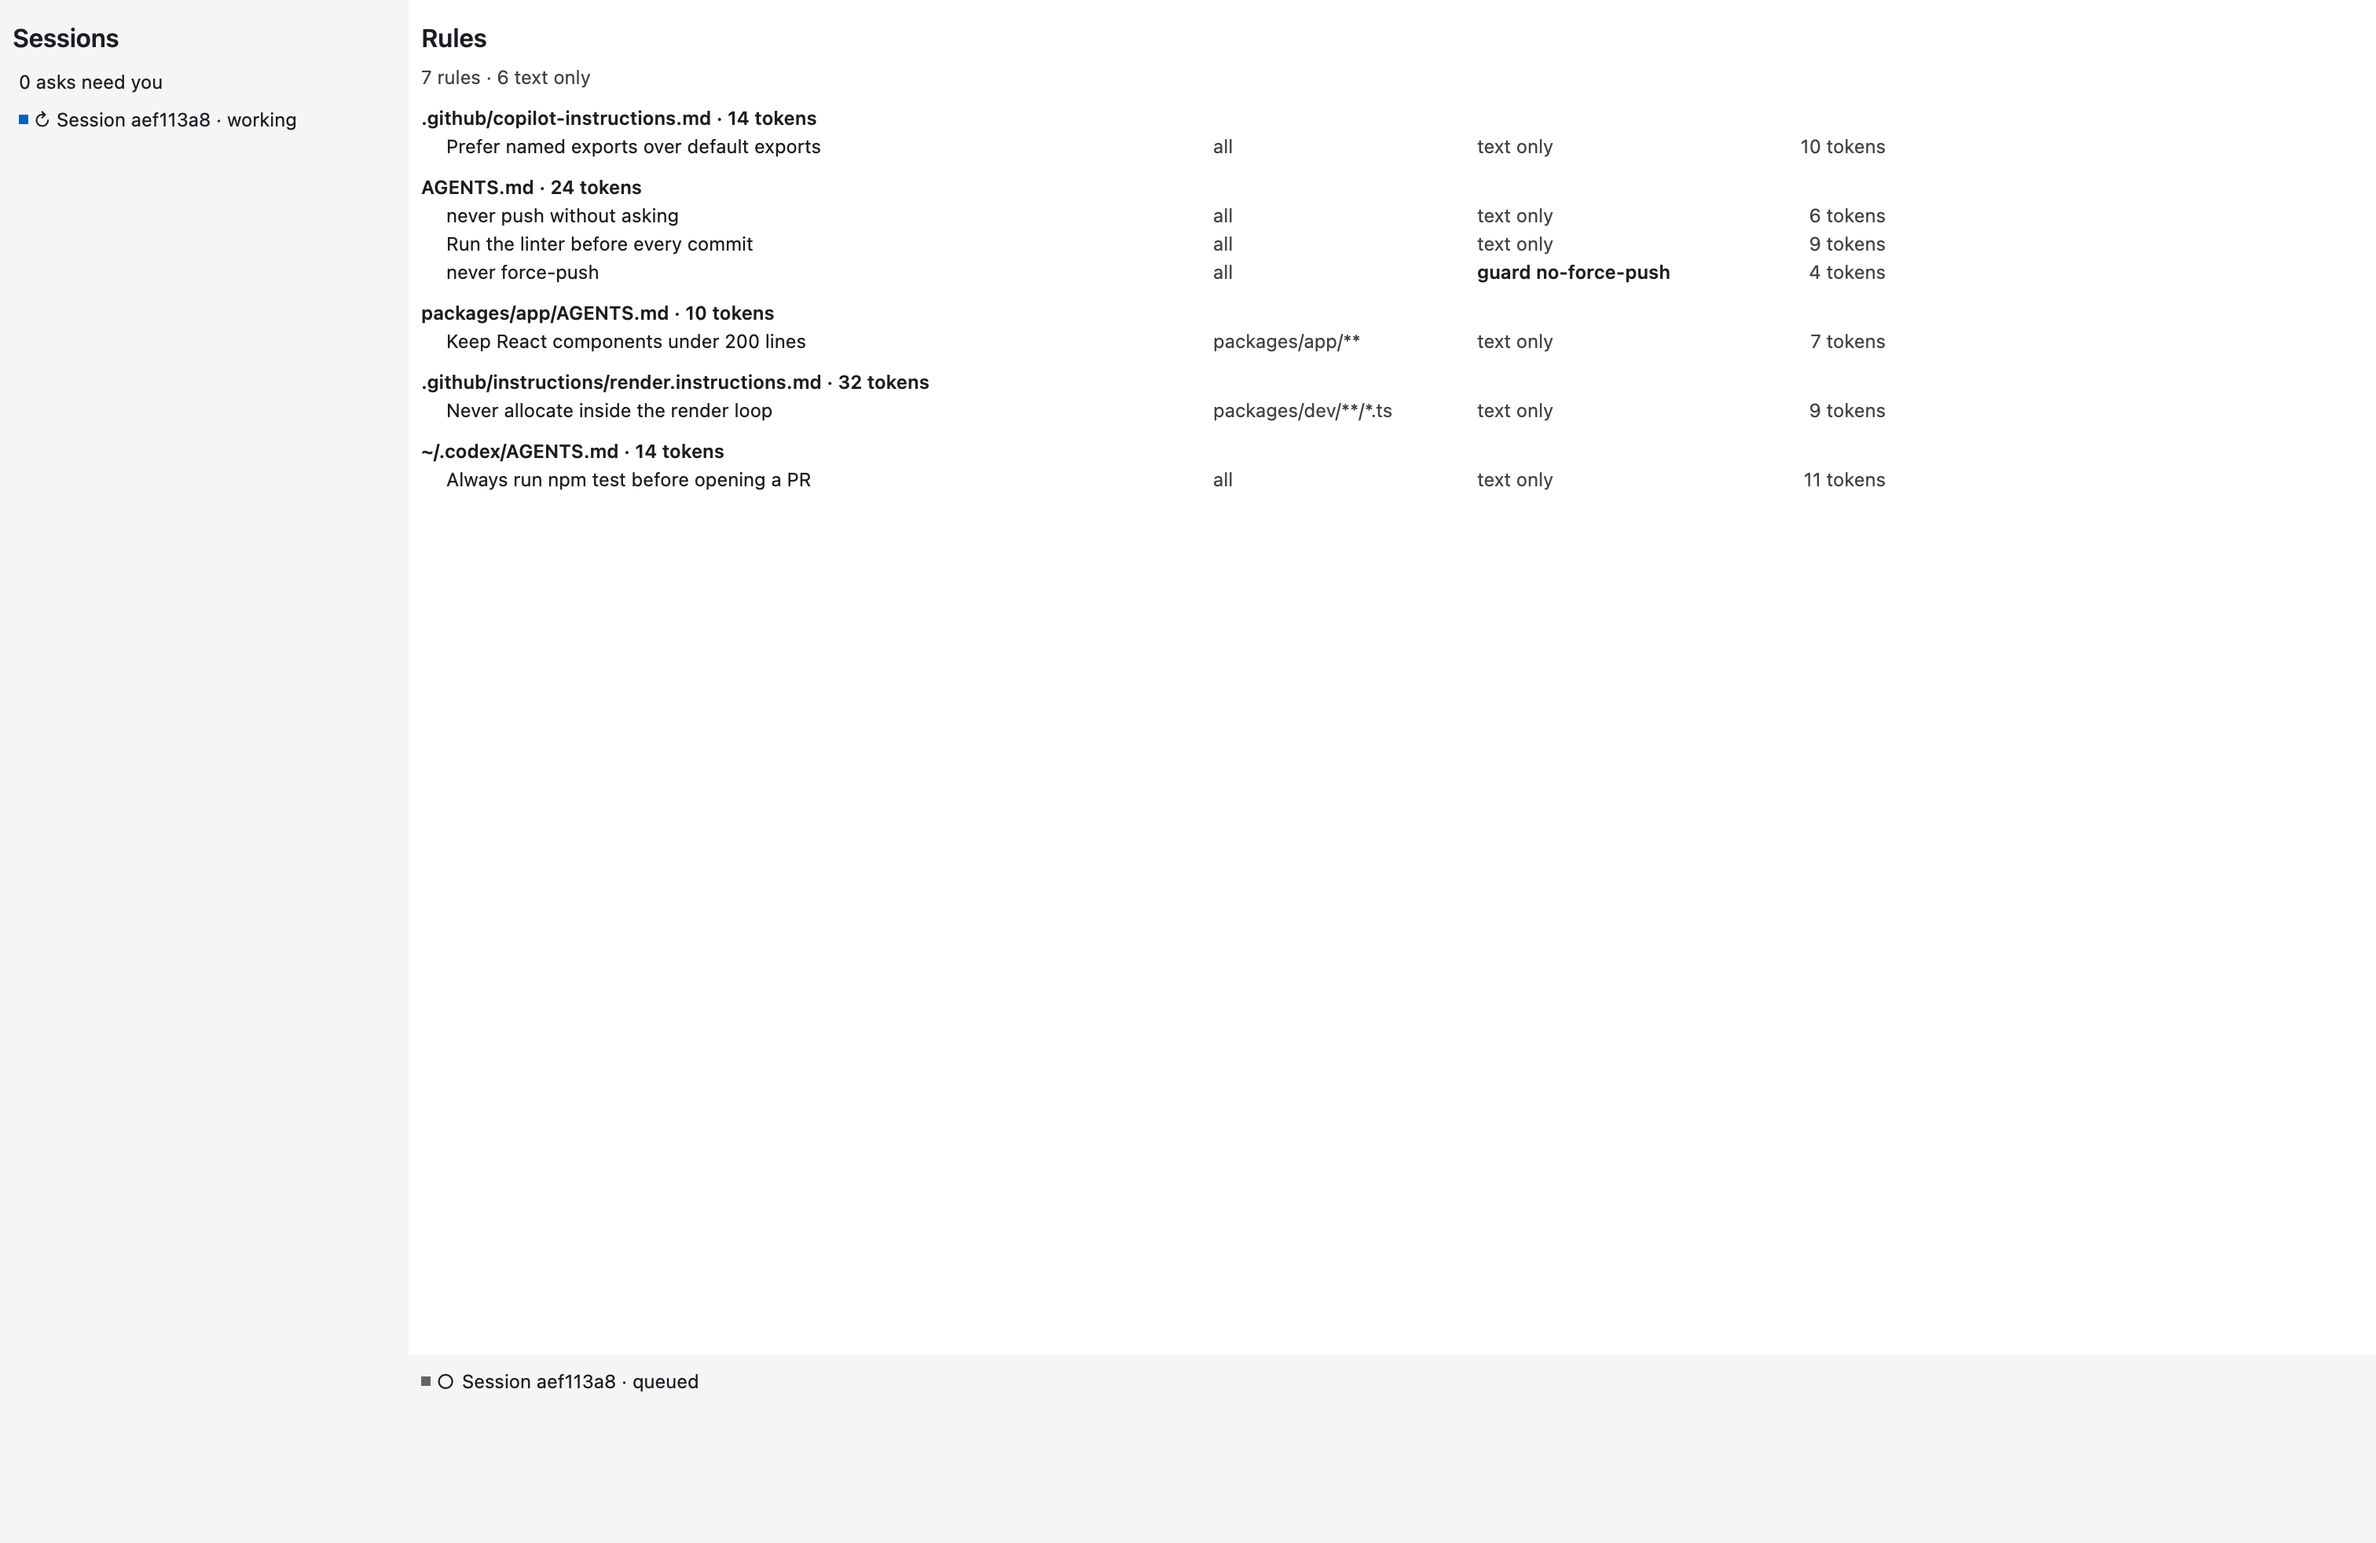
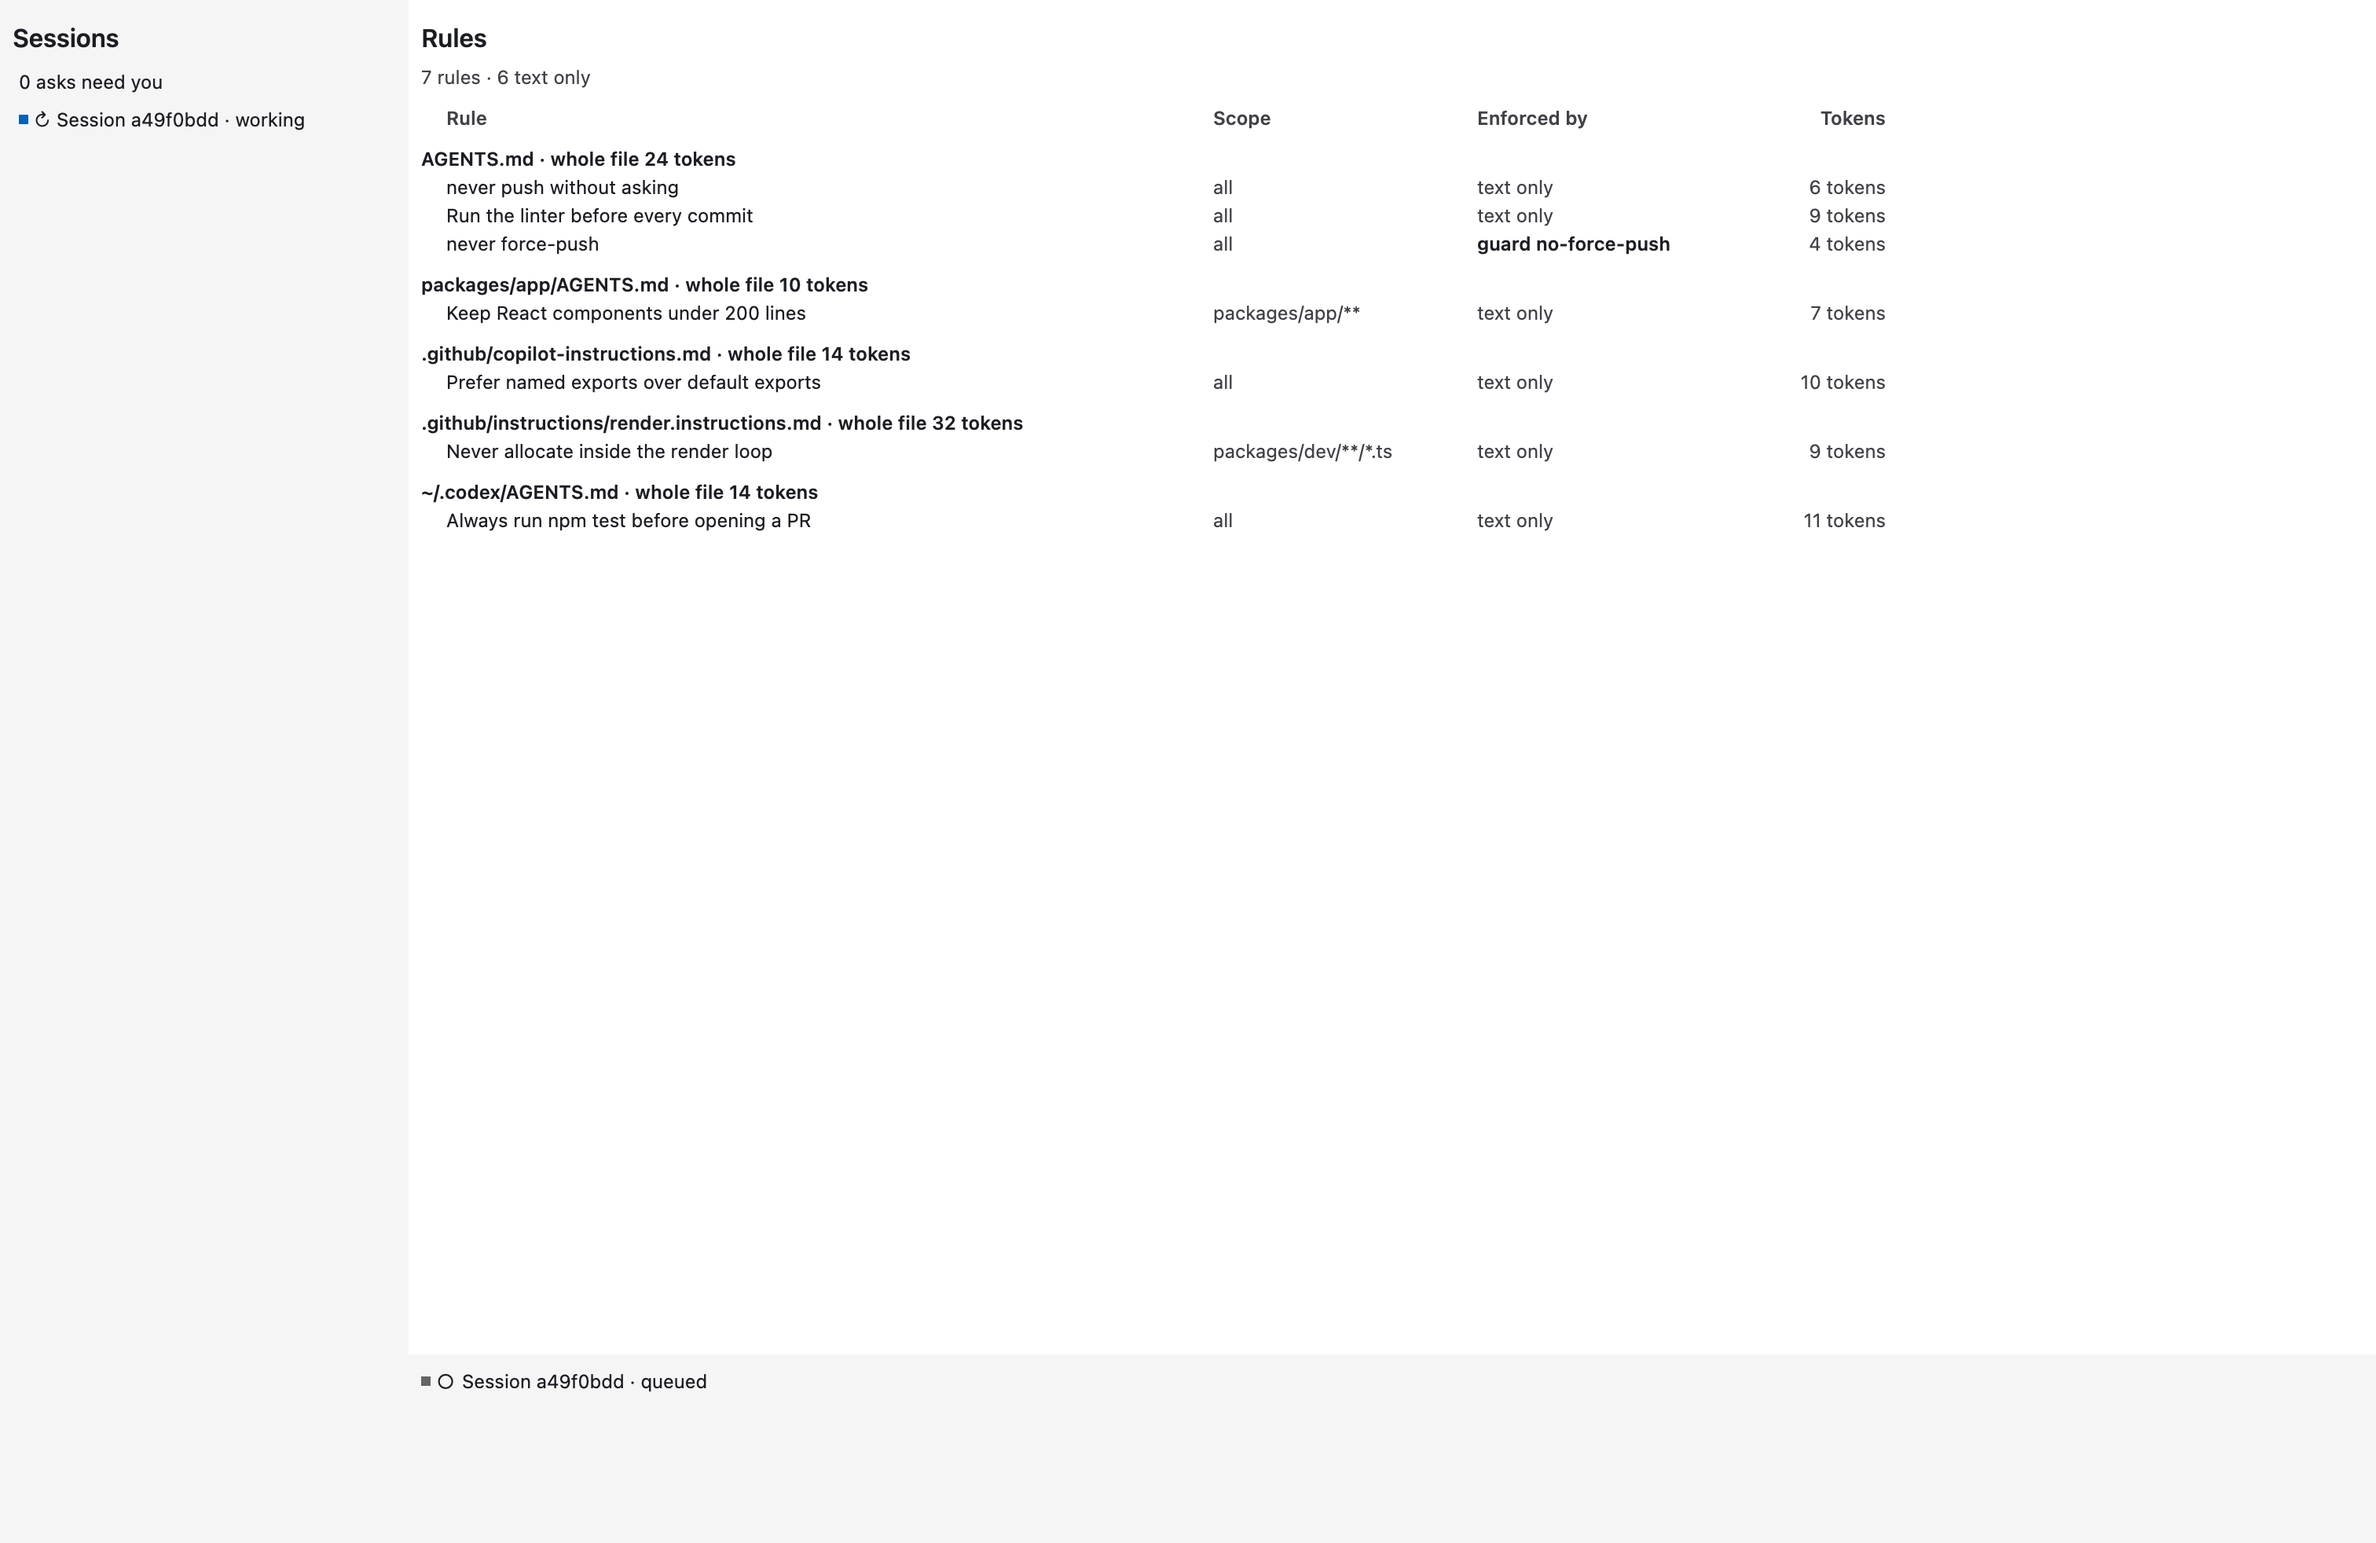
#344: the rules page gets column heads, root files first, and whole-file totals labelled; new screenshots

diff --git a/crates/deep-app/src/views.rs b/crates/deep-app/src/views.rs
@@ -934,6 +934,23 @@ impl Render for Shipped {
                         )
                         .text_color(chrome.ink_secondary),
                     )
+                    .child(
+                        // The column heads, at the rows' widths.
+                        div()
+                            .id("rules-head")
+                            .h(px(ROW_HEIGHT))
+                            .flex()
+                            .items_center()
+                            .gap_2()
+                            .pl_4()
+                            .mt_2()
+                            .text_color(chrome.ink_secondary)
+                            .font_weight(FontWeight::SEMIBOLD)
+                            .child(div().w(px(480.)).child("Rule"))
+                            .child(div().w(px(160.)).child("Scope"))
+                            .child(div().w(px(180.)).child("Enforced by"))
+                            .child(div().w(px(72.)).text_right().child("Tokens")),
+                    )
                     .children(files.iter().enumerate().map(|(f, file)| {
                         div()
                             .flex()
@@ -942,7 +959,7 @@ impl Render for Shipped {
                             .child(
                                 label(
                                     ("rules-file", f),
-                                    format!("{} · {} tokens", file.file, file.tokens),
+                                    format!("{} · whole file {} tokens", file.file, file.tokens),
                                 )
                                 .font_weight(FontWeight::SEMIBOLD),
                             )

diff --git a/crates/deep-app/src/rules.rs b/crates/deep-app/src/rules.rs
@@ -69,6 +69,13 @@ pub fn parse(text: &str) -> Vec<File> {
             });
         }
     }
+    // Root files first, then nested folders, then `.github`, then your home's: the order a repo reads in.
+    files.sort_by_key(|f| match f.file.as_str() {
+        p if p.starts_with('~') => 3,
+        p if p.starts_with(".github") => 2,
+        p if p.contains('/') => 1,
+        _ => 0,
+    });
     files
 }
 
@@ -80,13 +87,19 @@ mod tests {
     fn reads_each_file_and_each_rule_with_its_enforcer() {
         let page = r#"# rules
 
+- .github/copilot-instructions.md <!-- deep:rule-file {"file":".github/copilot-instructions.md","tokens":5} -->
+- Prefer named exports <!-- deep:claim {"id":"d","known":"repo","scope":"all","enforcer":{"kind":"text"},"tokens":4} -->
 - AGENTS.md <!-- deep:rule-file {"file":"AGENTS.md","tokens":12} -->
 - never force-push <!-- deep:claim {"id":"a","known":"repo","scope":"all","enforcer":{"kind":"guard","name":"no-force-push"},"tokens":4} -->
 - Run the linter <!-- deep:claim {"id":"b","known":"repo","scope":"all","enforcer":{"kind":"text"},"tokens":3,"held":"doc:x"} -->
 - a wiki claim <!-- deep:claim {"id":"c","known":"you"} -->
 "#;
         let files = parse(page);
-        assert_eq!(files.len(), 1);
+        assert_eq!(files.len(), 2);
+        assert_eq!(
+            files[0].file, "AGENTS.md",
+            "the root file comes before .github's"
+        );
         assert_eq!(files[0].tokens, 12);
         assert_eq!(
             files[0].rules.len(),
